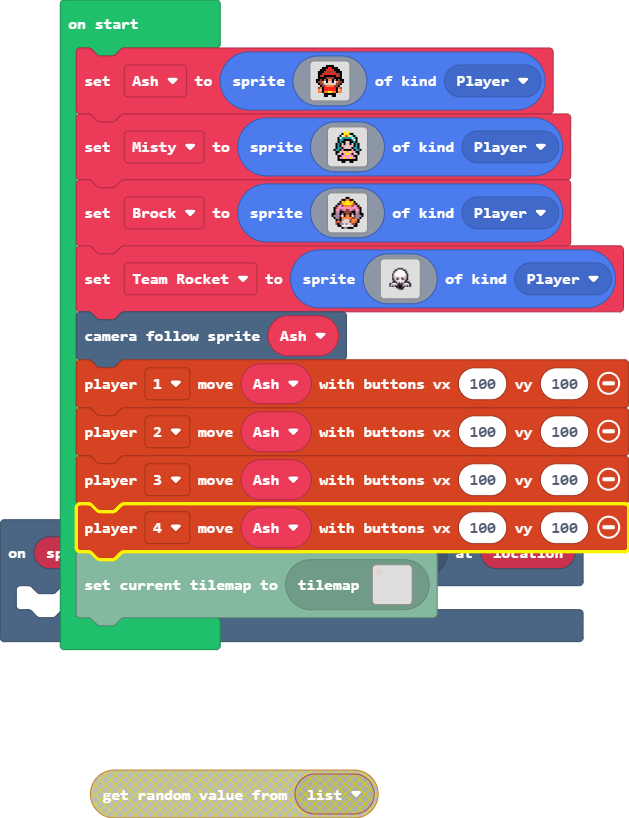
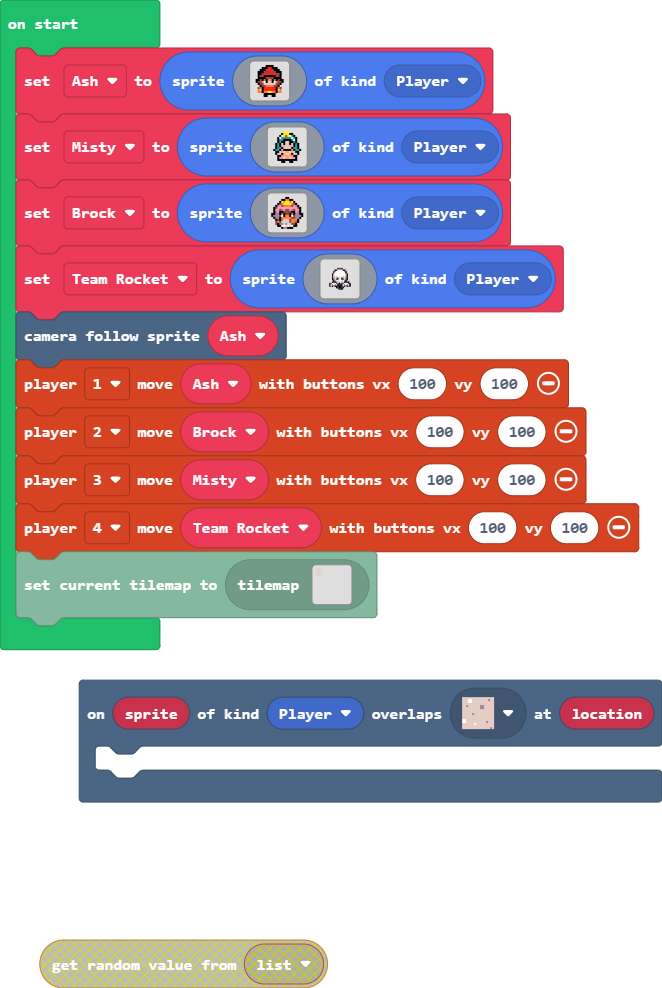
Update main.blocks, main.ts

diff --git a/main.ts b/main.ts
@@ -83,7 +83,7 @@ let Team_Rocket = sprites.create(img`
     `, SpriteKind.Player)
 scene.cameraFollowSprite(Ash)
 controller.player1.moveSprite(Ash, 100, 100)
-controller.player2.moveSprite(Ash, 100, 100)
-controller.player3.moveSprite(Ash, 100, 100)
-controller.player4.moveSprite(Ash, 100, 100)
+controller.player2.moveSprite(Brock, 100, 100)
+controller.player3.moveSprite(Misty, 100, 100)
+controller.player4.moveSprite(Team_Rocket, 100, 100)
 tiles.loadMap(tiles.createMap(tilemap`level1`))
